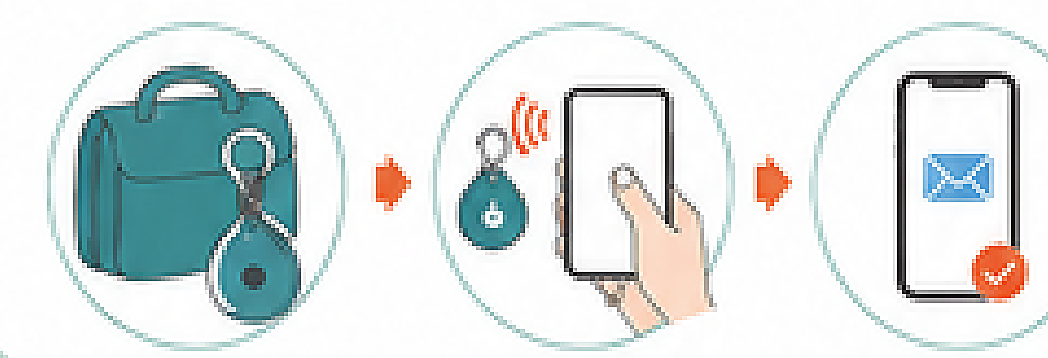
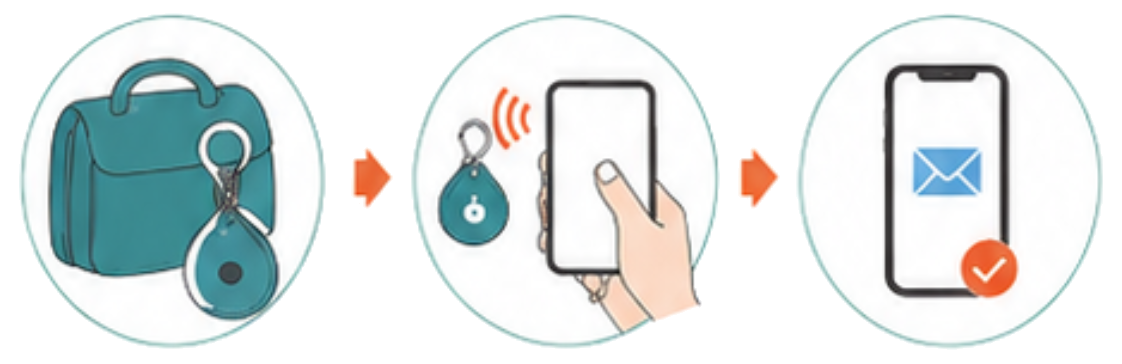
1ページ目の3ステップのイラストを差し替え、背景を透過にした
外周からたどって白背景だけを透過にしている。円の内側の白は図柄の一部
（白い円にティールの輪郭）なので残した。

新しいイラストは円の位置が変わったため、下の「発見／スマホでかざす／
匿名で連絡」を円の中心に合わせ直した（15.3% / 50.4% / 84.6%）。

diff --git a/flyers/school/index.html b/flyers/school/index.html
@@ -41,9 +41,9 @@
   <div class="t teal bold" style="left:6.0%;top:36.9%;width:50%;font-size:2.19cqw;line-height:1.72;">迷子・忘れ物対策を、個人情報を守りながら、<br>もっとスムーズに。</div>
   <div class="a" style="left:6.0%;top:44.3%;width:44%;border-bottom:0.32cqw dotted var(--teal);z-index:2;"></div>
   <div class="t dark bold" style="left:6.0%;top:44.9%;width:48%;font-size:1.76cqw;line-height:1.92;">このサービスは、ICタグとスマートフォンを<br>活用した迷子・忘れ物解決システムです。<br>キーホルダーやランドセルカバーなどにICタグを内蔵し、<br>園児・児童一人ひとりに“もしもの時の連絡手段”を<br>持たせることができます。<br>発見者は、スマートフォンをICタグにかざすだけで<br>持ち主・保護者と匿名で連絡ができるため、<br>氏名・電話番号・住所などの個人情報を<br>外側に表示する必要がありません。</div>
-  <div class="t teal bold center" style="left:7.9%;top:77.1%;width:8%;font-size:1.68cqw;">発見</div>
-  <div class="t teal bold center" style="left:20.1%;top:77.1%;width:14%;font-size:1.68cqw;">スマホでかざす</div>
-  <div class="t teal bold center" style="left:36.4%;top:77.1%;width:13%;font-size:1.68cqw;">匿名で連絡</div>
+  <div class="t teal bold center" style="left:6.46%;top:77.1%;width:8%;font-size:1.68cqw;">発見</div>
+  <div class="t teal bold center" style="left:18.27%;top:77.1%;width:14%;font-size:1.68cqw;">スマホでかざす</div>
+  <div class="t teal bold center" style="left:33.2%;top:77.1%;width:13%;font-size:1.68cqw;">匿名で連絡</div>
   <div class="t teal bold center" style="left:3%;top:84.4%;width:94%;font-size:2.19cqw;">＼　園・学校全体で取り組む、安心の仕組み。　／</div>
   <div class="t blue bold center" style="left:2.9%;top:94.1%;width:12%;font-size:1.68cqw;">全校配布</div>
   <div class="t blue bold center" style="left:14.8%;top:94.1%;width:12%;font-size:1.68cqw;">入学記念品</div>
